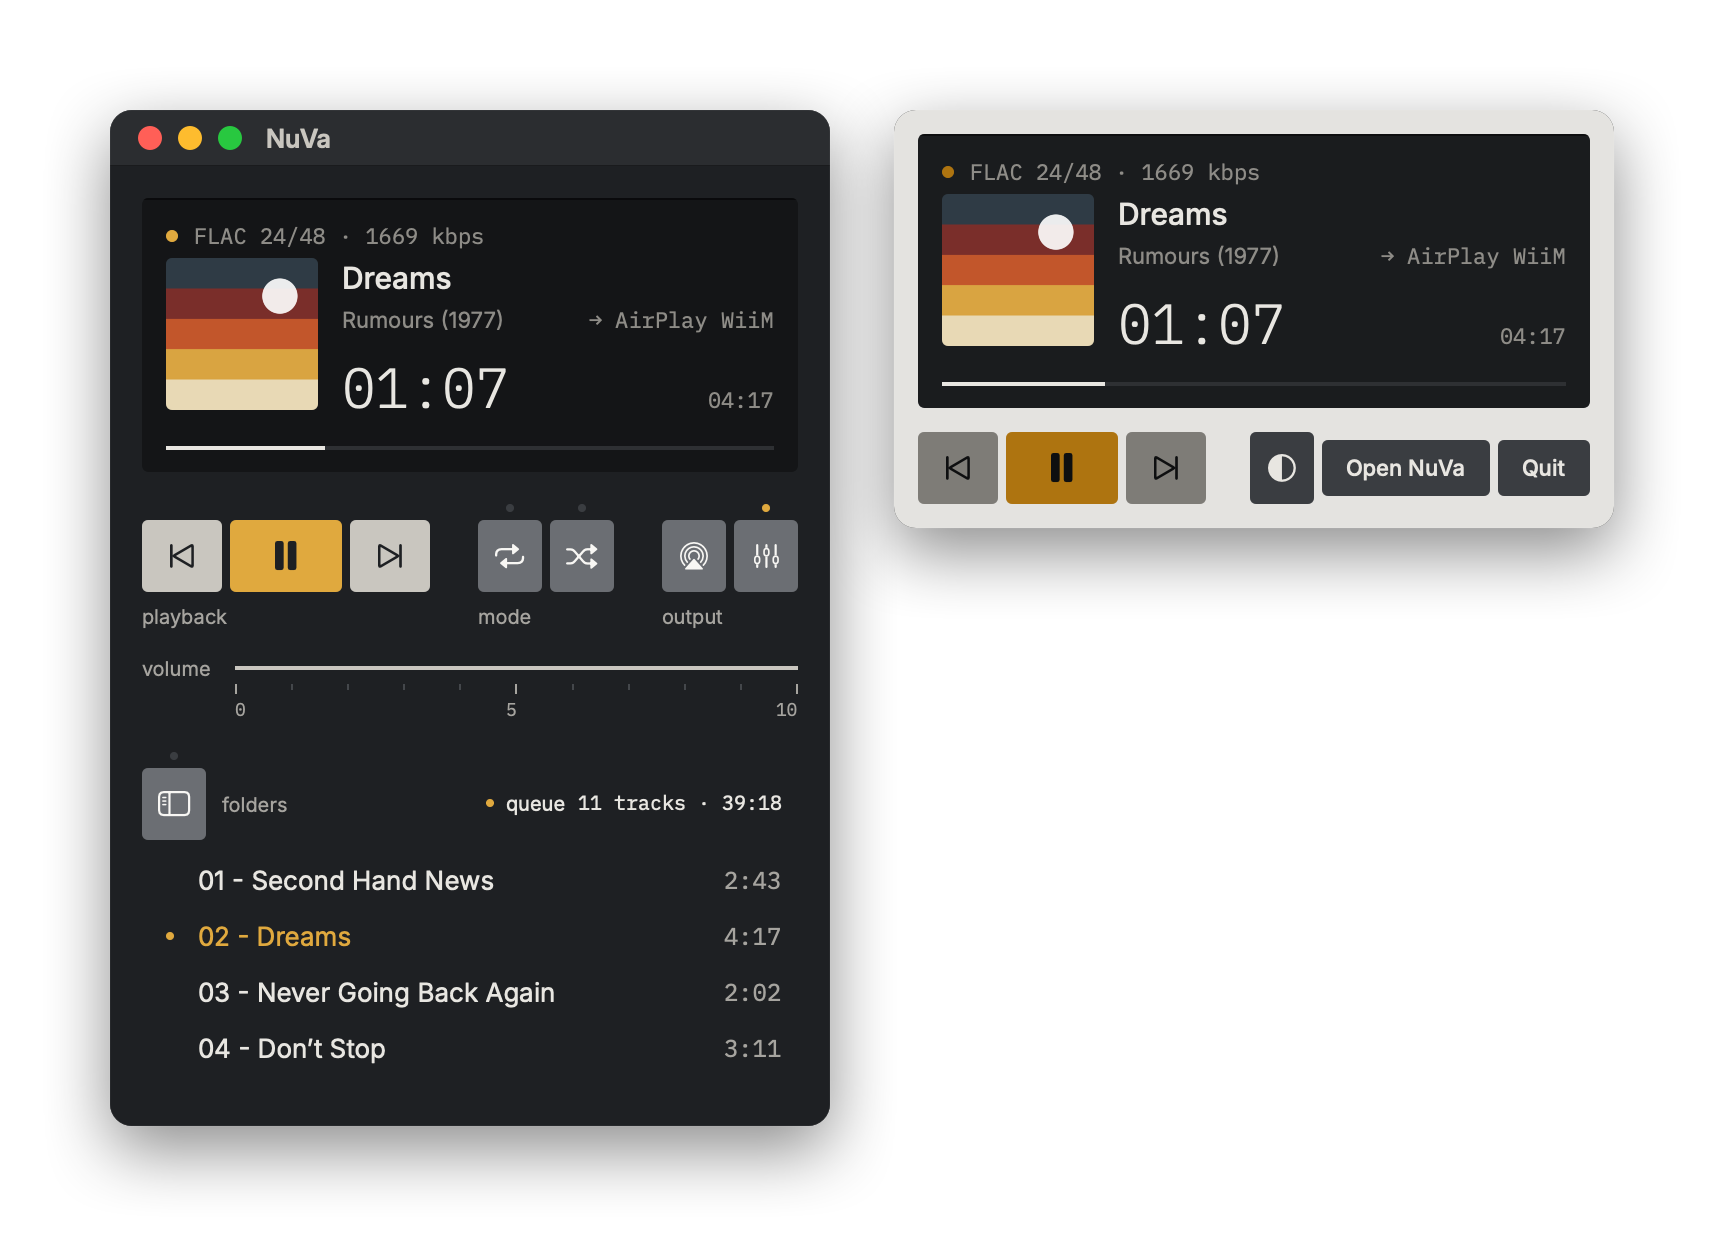
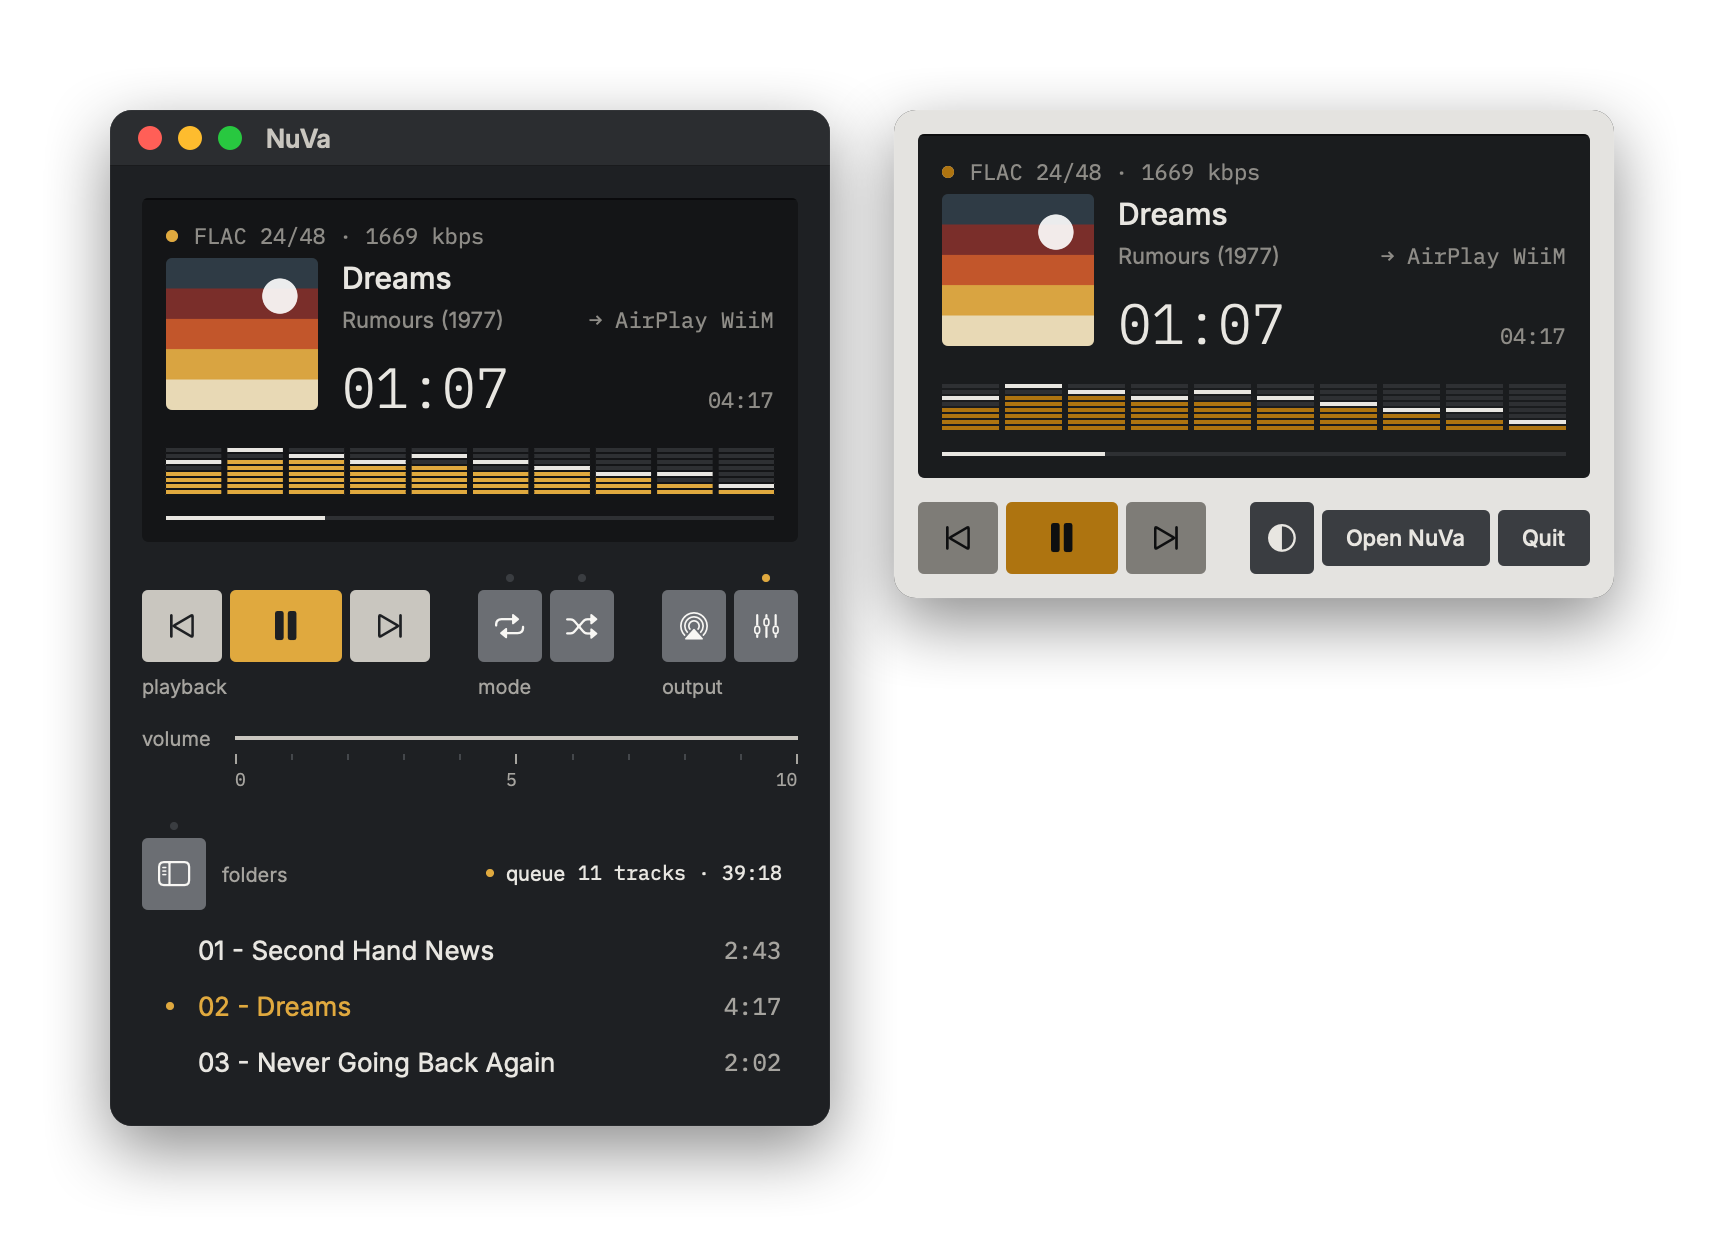
README: spectrum meter, new screenshots

diff --git a/README.md b/README.md
@@ -52,7 +52,7 @@ Send the music to a WiiM, a HomePod, an Apple TV or any AirPlay speaker from the
 
 <p align="center"><img src="docs/screenshots/themes.png" width="760" alt="NuVa in the dark Lead theme and the light Aluminium theme"></p>
 
-NuVa borrows from Dieter Rams and classic Braun hi-fi: one flat panel, keys that say what they do by their colour, and small amber lights for what's on. An always-dark display shows the format, the bit depth and where the sound is going. It follows your Mac's appearance, in dark **Lead** or light **Aluminium**.
+NuVa borrows from Dieter Rams and classic Braun hi-fi: one flat panel, keys that say what they do by their colour, and small amber lights for what's on. An always-dark display shows the format, the bit depth and where the sound is going, with a spectrum meter of amber segments that dances with the music, one column per equalizer band. It follows your Mac's appearance, in dark **Lead** or light **Aluminium**.
 
 ## Skins and fonts
 
@@ -119,6 +119,7 @@ On first launch NuVa tells you what to do: add a folder, or sign in to Jellyfin.
 - Folders on your Mac, on an external disk or on a mounted network share (SMB), and audio CDs.
 - Queue: play a folder, add more, drag to reorder, delete to remove.
 - Repeat (all or one), shuffle, seek, volume with a scroll of the mouse.
+- A 10-band equalizer with presets, and a spectrum meter on the display that follows what you hear, also over AirPlay (**View › Show Spectrum**, ⌥⌘V).
 - Optional album artwork: the image in the folder, or found online from the folder names. Never from tags.
 - Media keys, Control Center, the lock screen and AirPods controls.
 - Keyboard first: every action has a shortcut.
@@ -155,6 +156,7 @@ xattr -dr com.apple.quarantine /Applications/NuVa.app
 | ⌘1 · ⌘2 · ⌘3 | Player · with browser · compact |
 | ⌥⌘1 · ⌥⌘2 … | Skin (also in View ▸ Skin) |
 | ⌥⌘A | Show or hide folder artwork |
+| ⌥⌘V | Show or hide the spectrum meter |
 | ⌘L | Go to the current track |
 | Enter · ⌘Enter | Play the selection · add it to the queue |
 | ⌘O · ⇧⌘O | Add a folder · add Jellyfin |
@@ -201,7 +203,8 @@ Toca FLAC pelo motor de áudio da própria Apple, envia o som para as tuas colun
 - **Capas, se quiseres:** Visualização › Mostrar capas (⌥⌘A). Usa a imagem da pasta (`cover`, `folder`, `front`, `album` ou `capa`); se não houver, procura no MusicBrainz pelo nome das pastas. Nunca das tags. Capa errada ou em falta: carrega na capa e corrige o artista ou o álbum, ou escolhe uma imagem. Desligado por defeito.
 - **CDs áudio, como um leitor de CDs.** Mete um disco no leitor e a NuVa toca-o logo. Os nomes do álbum e das faixas vêm do MusicBrainz, pelo índice do disco (um CD não traz nomes). Ejetar com ⌘E. Para abrir a NuVa sempre que entra um CD: Definições do Sistema › CDs e DVDs › Ao inserir um CD de música › Abrir outra aplicação… › NuVa.
 - **Avisa quando há versão nova** (verifica no GitHub uma vez por dia, sem descarregar nada). [Termos e privacidade](TERMS.md) em NuVa › Termos e privacidade.
-- **Equalizador de 10 bandas**, media keys, Centro de Controlo e mini player na barra de menus.
+- **Equalizador de 10 bandas** e **espectro no visor**: colunas de segmentos âmbar, uma por banda, que seguem o que estás a ouvir, também em AirPlay (Visualização › Mostrar espectro, ⌥⌘V).
+- Media keys, Centro de Controlo e mini player na barra de menus.
 - Em português e inglês, conforme a língua do sistema. macOS 14 ou posterior, Apple silicon e Intel.
 
 ### Instalar
@@ -213,4 +216,4 @@ Toca FLAC pelo motor de áudio da própria Apple, envia o som para as tuas colun
 
 Só é preciso uma vez.
 
-Atalhos: Espaço tocar/pausa · ⌘→ ⌘← seguinte/anterior · ⌘↑ ⌘↓ volume · ⌘B pastas · ⌘1 ⌘2 ⌘3 tamanho da janela · ⌥⌘1 ⌥⌘2 … skin · ⌥⌘A capas · ⌘L faixa atual · ⌘O adicionar pasta · ⇧⌘O adicionar Jellyfin.
+Atalhos: Espaço tocar/pausa · ⌘→ ⌘← seguinte/anterior · ⌘↑ ⌘↓ volume · ⌘B pastas · ⌘1 ⌘2 ⌘3 tamanho da janela · ⌥⌘1 ⌥⌘2 … skin · ⌥⌘A capas · ⌥⌘V espectro · ⌘L faixa atual · ⌘O adicionar pasta · ⇧⌘O adicionar Jellyfin.
